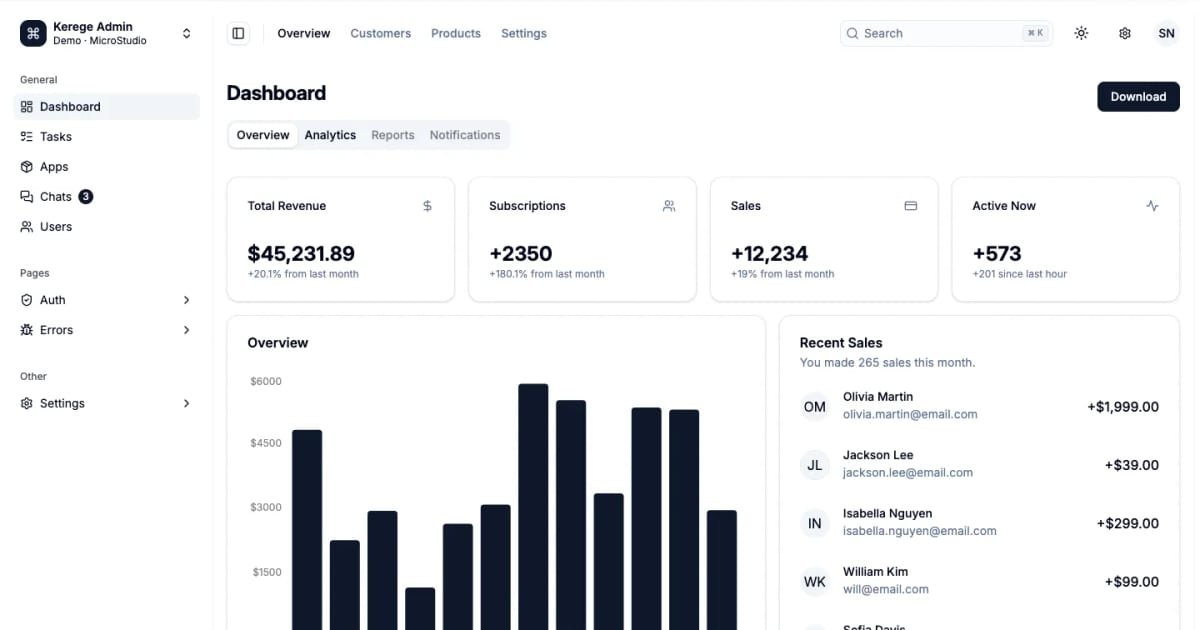
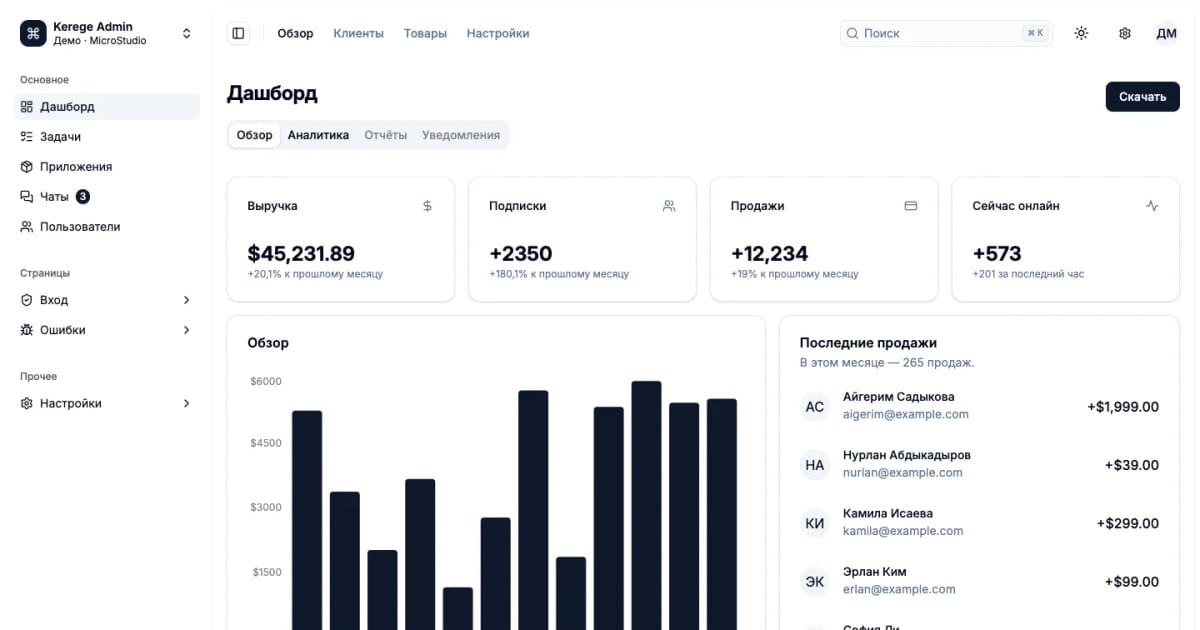
Site polish: Russian portfolio, heading order in catalogue, tablet contact cards, hashed screenshot names, updated demo wording, robust image test

diff --git a/scripts/sync-showcase.ts b/scripts/sync-showcase.ts
@@ -1,7 +1,9 @@
 /**
  * Pulls the published projects from the showcase registry into the site:
  *   src/data/portfolio.json            public project data (validated at build)
- *   public/portfolio/<slug>/*.webp     live screenshots of each deployment
+ *   public/portfolio/<slug>/*.<hash>.webp  live screenshots of each deployment
+ *                                      (content hash in the name, so a new
+ *                                      screenshot never reuses a cached URL)
  *   public/og/work-<slug>.jpg          1200×630 share image cut from the cover
  *
  *   SHOWCASE_DIR=../microstudio-showcase pnpm sync:showcase
@@ -10,6 +12,7 @@
  * so every image here is a real screenshot of the current deployment.
  */
 import { copyFile, mkdir, readFile, rm, writeFile } from "node:fs/promises";
+import { createHash } from "node:crypto";
 import { existsSync } from "node:fs";
 import path from "node:path";
 import sharp from "sharp";
@@ -33,11 +36,15 @@ async function main() {
     const src = path.join(showcase, "qa-output/captures", entry.slug);
     const dest = path.join(outDir, entry.slug);
     await mkdir(dest, { recursive: true });
+    const names = new Map<string, string>();
     for (const shot of shots) {
       if (!existsSync(path.join(src, shot.file))) throw new Error(`missing screenshot ${entry.slug}/${shot.file}`);
-      await copyFile(path.join(src, shot.file), path.join(dest, shot.file));
+      const hash = createHash("sha1").update(await readFile(path.join(src, shot.file))).digest("hex").slice(0, 8);
+      const name = shot.file.replace(/\.webp$/, `.${hash}.webp`);
+      names.set(shot.file, name);
+      await copyFile(path.join(src, shot.file), path.join(dest, name));
     }
-    const image = (s: Shot) => ({ src: `/portfolio/${entry.slug}/${s.file}`, width: s.width, height: s.height });
+    const image = (s: Shot) => ({ src: `/portfolio/${entry.slug}/${names.get(s.file)}`, width: s.width, height: s.height });
     // The cover can be a gallery shot (e.g. the CRM board instead of its login screen).
     const desktop = shots.find((s) => s.name === cover && s.viewport === "desktop") ?? shots.find((s) => s.name === "desktop")!;
     const mobile = shots.find((s) => s.name === "mobile")!;

diff --git a/src/content/locales/ru.ts b/src/content/locales/ru.ts
@@ -172,7 +172,7 @@ const ru = {
   footer: {
     tagline: "MicroStudio — студия полного цикла: от анализа и дизайна до запуска и развития.",
     disclaimer:
-      "Демо-проекты — работы студии для вымышленных компаний: это отмечено на карточках и в самих демо. Сторонние шрифты и материалы указаны на страницах проектов.",
+      "Демо-проекты — адаптации открытых проектов для вымышленных компаний. На странице каждого указаны исходник, лицензия, наша версия на GitHub и что мы изменили.",
     siteTitle: "Сайт",
     servicesTitle: "Услуги",
     contactTitle: "Связаться",
@@ -354,7 +354,7 @@ const ru = {
     ],
     stackLead: "Инструменты подбираем под проект. Этот сайт сделан на Next.js, React и TypeScript.",
     examplesTitle: "Наши работы",
-    examplesBody: "Страница сервисного центра BestElectronics, собственный продукт TikiTaki и демо-проекты для разных отраслей: магазин, CRM, корпоративный сайт, фестиваль. Каждый можно открыть.",
+    examplesBody: "Страница сервисного центра BestElectronics, собственный продукт TikiTaki и демо для разных отраслей — отель, ресторан, магазин, агентство недвижимости, панель управления. Каждую работу можно открыть.",
     examplesCta: "Смотреть проекты",
   },
   contact: {

diff --git a/src/content/locales/en.ts b/src/content/locales/en.ts
@@ -174,7 +174,7 @@ const en: Dictionary = {
   footer: {
     tagline: "MicroStudio — a full-cycle studio, from research and design to launch and growth.",
     disclaimer:
-      "Demo projects are the studio’s work for fictional companies, marked on every card and inside each demo. Third-party fonts and assets are credited on project pages.",
+      "Demo projects are adaptations of open-source projects for fictional companies. Each project page lists the source, licence, our version on GitHub and what we changed.",
     siteTitle: "Site",
     servicesTitle: "Services",
     contactTitle: "Get in touch",
@@ -356,7 +356,7 @@ const en: Dictionary = {
     ],
     stackLead: "We pick tools to suit the project. This website is built with Next.js, React and TypeScript.",
     examplesTitle: "Our work",
-    examplesBody: "The BestElectronics repair centre page, our own TikiTaki product and demo projects across industries: a store, a CRM, a company website, a festival. Each one can be opened.",
+    examplesBody: "The BestElectronics repair centre page, our own TikiTaki product and demos across industries — a hotel, a restaurant, a store, a real estate agency and an admin dashboard. Each one can be opened.",
     examplesCta: "View projects",
   },
   contact: {

diff --git a/tests/e2e/pages.spec.ts b/tests/e2e/pages.spec.ts
@@ -172,10 +172,16 @@ test("37–38. images load and nothing overflows horizontally", async ({ page })
     }
   });
   await page.waitForLoadState("networkidle");
-  const broken = await page.locator("img").evaluateAll((imgs) =>
-    (imgs as HTMLImageElement[]).filter((i) => !i.complete || i.naturalWidth === 0).map((i) => i.src),
-  );
-  expect(broken).toEqual([]);
+  // Under a fully parallel run images can still be decoding; poll instead of a single check.
+  await expect
+    .poll(
+      () =>
+        page.locator("img").evaluateAll((imgs) =>
+          (imgs as HTMLImageElement[]).filter((i) => !i.complete || i.naturalWidth === 0).map((i) => i.src),
+        ),
+      { timeout: 15_000 },
+    )
+    .toEqual([]);
 });
 
 test("39. every internal link resolves", async ({ page, request }) => {

diff --git a/src/app/[locale]/contact/page.tsx b/src/app/[locale]/contact/page.tsx
@@ -57,9 +57,10 @@ export default async function ContactPage({ params, searchParams }: Props) {
         <p className="lead mt-4">{c.lead}</p>
 
         <h2 className="sr-only">{c.directTitle}</h2>
-        <ul className="mt-8 grid gap-3 md:grid-cols-[1.4fr_1fr_1fr]">
+        {/* Tablet: WhatsApp on its own row, so the handle and phone never truncate. */}
+        <ul className="mt-8 grid gap-3 md:grid-cols-2 lg:grid-cols-[1.4fr_1fr_1fr]">
           {wa && site.whatsappE164 && (
-            <li>
+            <li className="md:col-span-2 lg:col-span-1">
               <TrackedLink
                 href={wa}
                 event="contact_method"

diff --git a/src/lib/schemas.ts b/src/lib/schemas.ts
@@ -10,7 +10,7 @@ export const projectFormats = ["landing", "corporate", "shop", "app", "special"]
 export const projectIndustries = ["local-services", "commerce", "food-travel-realty", "education", "b2b", "products", "creative"] as const;
 /**
  * client — made for a confirmed client; product — MicroStudio's own product;
- * demo — a self-initiated demonstration project (fictional company).
+ * demo — a demonstration project for a fictional company (now: adapted open-source projects).
  */
 export const workTypes = ["client", "product", "demo"] as const;
 /** What a feature really is in the demo, shown honestly on the case page. */

diff --git a/tests/e2e/portfolio.spec.ts b/tests/e2e/portfolio.spec.ts
@@ -37,7 +37,7 @@ test("11–16. search, filters, sort and reset keep state in the URL and history
   await expect(cards(page)).toHaveCount(Math.min(12, demos));
   await page.getByLabel("Сортировка").selectOption("az");
   await expect(page).toHaveURL(/type=demo&sort=az/);
-  const names = await page.locator("main ul > li > article h3").allTextContents();
+  const names = await page.locator("main ul > li > article h2").allTextContents();
   expect([...names].sort((a, b) => a.localeCompare(b, "ru"))).toEqual(names);
 
   // Back restores the previous filter set.

diff --git a/src/app/[locale]/work/page.tsx b/src/app/[locale]/work/page.tsx
@@ -50,7 +50,7 @@ export default async function WorkPage({ params }: Props) {
     <ul className="mt-8 grid gap-x-6 gap-y-12 sm:grid-cols-2 lg:grid-cols-3">
       {lp.slice(0, 12).map((p, i) => (
         <li key={p.slug}>
-          <ProjectCard project={p} href={href(locale, `/work/${p.slug}`)} labels={cardLabels(p, locale)} priority={i < 3} />
+          <ProjectCard project={p} href={href(locale, `/work/${p.slug}`)} labels={cardLabels(p, locale)} priority={i < 3} headingLevel="h2" />
         </li>
       ))}
     </ul>

diff --git a/src/components/portfolio/catalog.tsx b/src/components/portfolio/catalog.tsx
@@ -295,6 +295,7 @@ export function Catalog({ items, labels, locale }: { items: CatalogItem[]; label
                 project={p}
                 href={p.href}
                 priority={i < 3}
+                headingLevel="h2"
                 labels={{ type: labels.typeSingle[p.workType], format: labels.formatSingle[p.format], open: p.openLabel, details: labels.details, newTab: labels.newTab }}
               />
             </li>

diff --git a/docs/showcase/CHECKPOINT.md b/docs/showcase/CHECKPOINT.md
@@ -36,13 +36,17 @@
 
 Список изменений по каждому — в `ADAPTATION.md` в корне форка и в карточке на сайте («Что сделала MicroStudio»).
 
+Все пять демо переведены на русский (решение владельца: единообразие). Пока портфолио остаётся из этих 5 работ + 2 работы владельца; новые партии — только по команде владельца.
+
 Публично на сайте сейчас 7 работ: эти 5 + best-electronics-link (клиент) + tikitaki (свой продукт). 25 собственных демо скрыты (`status: retired` в их `showcase.json`), код и деплои сохранены, их адреса кейсов перенаправляются в каталог.
 
 Как устроено:
 - Форки лежат локально в `~/ms-adapted/<repo>`, remote `origin` — форк в kirill-dorkin, `upstream` — исходник.
 - Деплой: `~/ms-adapted/deploy.sh <папка-сборки> <vercel-проект>` (копирует сборку в `~/ms-adapted/_deploy/<проект>`, где хранится привязка к Vercel).
 - Метаданные карточек: `microstudio-showcase/adapted/<slug>/showcase.json` (`provenance.type: "derived"`, `upstream` с `sha`, `license`, `demo`, `fork`). Пайплайн QA/скриншотов/Lighthouse/экспорта тот же, проверка — только живого демо.
-- Lighthouse (мобильный): Ochok 100, Marby 91, Maison 77, Saima 73, Kerege 69 — ниже 90 из-за тяжёлых исходных изображений/бандла; доступность 96–100.
+- Lighthouse демо (мобильный): Ochok 100, Marby 91, Maison 77, Saima 73, Kerege 69 — ниже 90 из-за тяжёлых исходных изображений/бандла; доступность 96–100.
+- Сайт студии (Lighthouse mobile, локальная прод-сборка): производительность 90–96, доступность 98–100, best practices 100. SEO на превью/локально ~66 только из-за намеренного `noindex` вне продакшена.
+- Скриншоты на сайте получают хэш в имени файла (`sync:showcase`), чтобы новый скриншот не подменялся закэшированным.
 
 Следующий шаг: ещё партии по 5 из резерва в `SOURCES.md` и новый поиск (магазины одежды/техники, корпоративные B2B, клиники, образование, кабинеты), тот же порядок: просмотр исходника на двух ширинах → форк → минимальная адаптация → деплой → QA → карточка.
 
